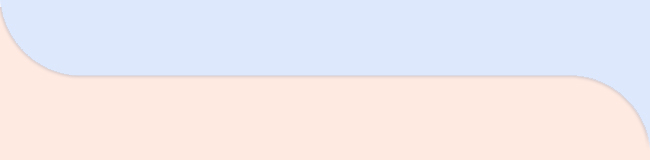
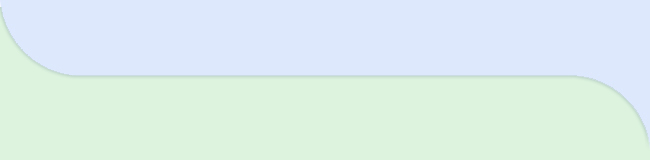
index page changes

diff --git a/index.html b/index.html
@@ -399,7 +399,7 @@
 							<!-- Section 3 -->
 							<table width="100%" border="0" cellspacing="0" cellpadding="0" bgcolor="#ebebeb">
 								<tr>
-									<td class="p0-15-30" style="padding: 0px 30px 70px 30px;" bgcolor="#ffeae1">
+									<td class="p0-15-30" style="padding: 0px 30px 70px 30px;" bgcolor="#ddf3de">
 										<table width="100%" border="0" cellspacing="0" cellpadding="0">
 											<tr>
 												<td class="h2-center pb40"style="color:#000000; font-family:'Playfair Display', Times, 'Times New Roman', serif; font-size:26px; line-height:36px; text-align:center; padding-bottom:40px;    font-weight: 700;"><multiline>LQ’s Latest Supreme Court Judgements 2019</multiline></td>
@@ -726,7 +726,7 @@
 																								<td class="h5-black black" style="font-family:'Raleway', Arial,sans-serif; font-size:14px; line-height:18px; text-align:left; padding-bottom:15px; text-transform:uppercase; font-weight:bold; color:#000000;"><multiline><a href="https://www.prsindia.org/sites/default/files/bill_files/The Banning of Unregulated Deposit Schemes Bill, 2019 Text_0.pdf" target="_blank">The Banning Of Unregulated Deposit Schemes Bill, 2019</a></multiline></td>
 																							</tr>
 																							<tr>
-																								<td class="text black" style="font-family:'Raleway', Arial,sans-serif; font-size:13px; line-height:22px; text-align:left;color: #e2e2e4d6;"><multiline>The Banning of Unregulated Deposit Schemes Bill provides for a comprehensive mechanism to ban the unregulated deposit schemes, other than deposits taken in the ordinary course of business, and to protect the interest of depositors. It puts forth provisions for Banning of Unregulated Deposit Schemes, Competent Authority (the appropriate Government has to by notification, appoint one or more officers not below the rank of Secretary to that Government); Information of business by deposit taker; Restitution to depositors, Publication of advertisement of Unregulated Deposit Scheme along with many others. </multiline><a href="#" style="color:#FFF 
+																								<td class="text black" style="font-family:'Raleway', Arial,sans-serif; font-size:13px; line-height:22px; text-align:left;color: #e2e2e4d6;"><multiline>The Banning of Unregulated Deposit Schemes Bill provides for a comprehensive mechanism to ban the unregulated deposit schemes, other than deposits taken in the ordinary course of business, and to protect the interest of depositors. It puts forth provisions for Banning of Unregulated Deposit Schemes, Competent Authority (the appropriate Government has to by notification, appoint one or more officers not below the rank of Secretary to that Government); Information of business by deposit taker; Restitution to depositors, Publication of advertisement of Unregulated Deposit Scheme along with many others. </multiline><a href="https://www.prsindia.org/sites/default/files/bill_files/The Banning of Unregulated Deposit Schemes Bill%2C 2019 Text_0.pdf" target="_blank" style="color:#FFF 
     ">Read more</a></td>
 																							</tr>
 																						</tbody></table>
